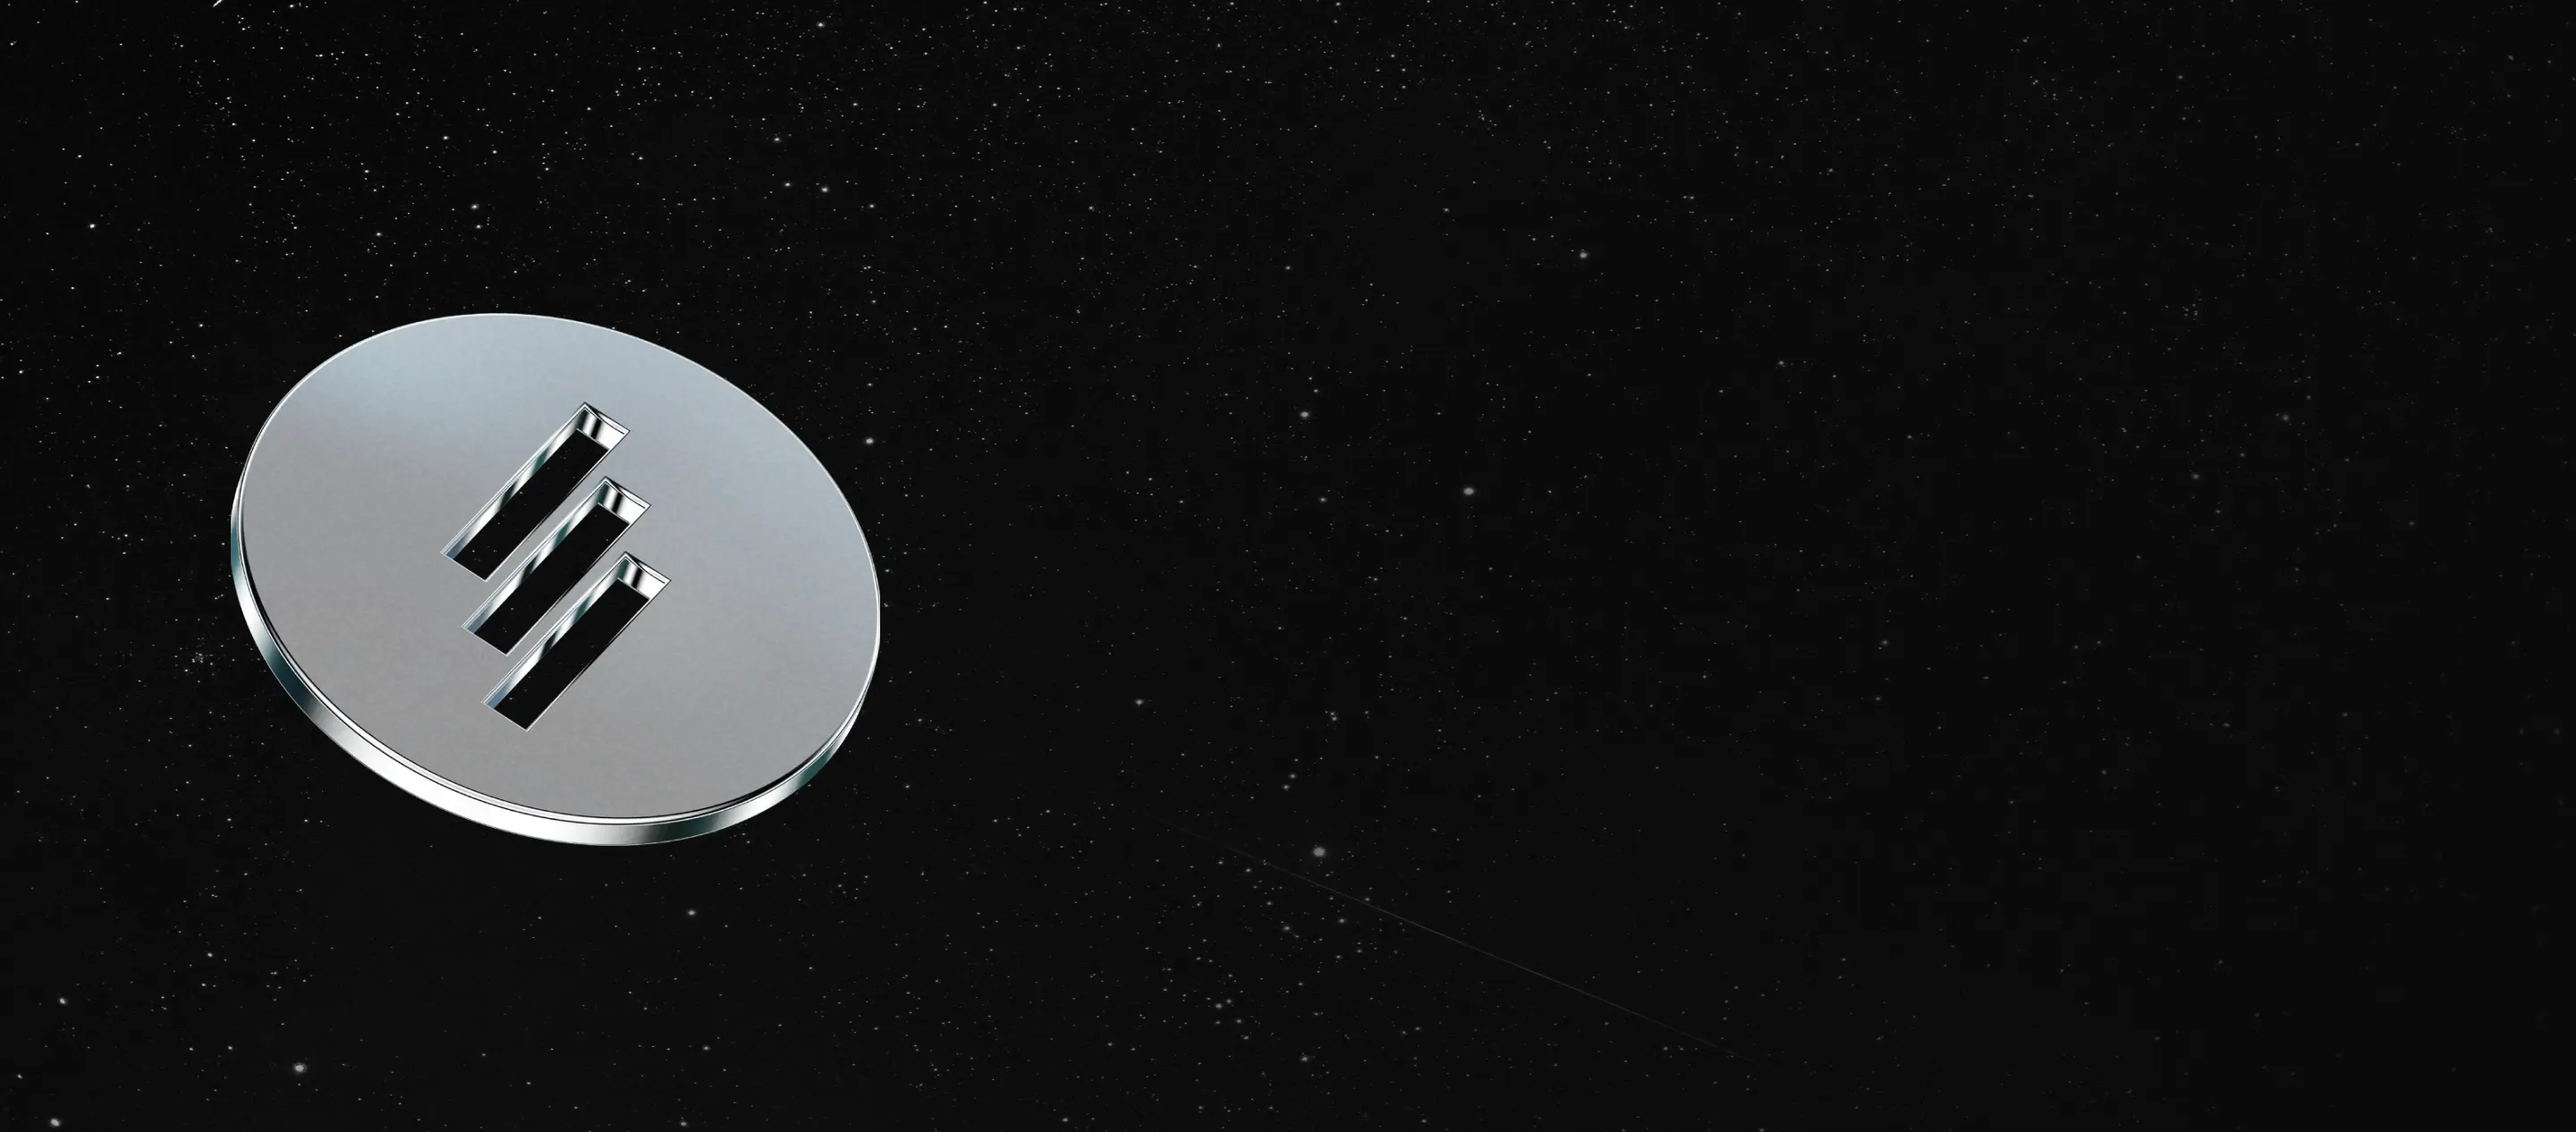
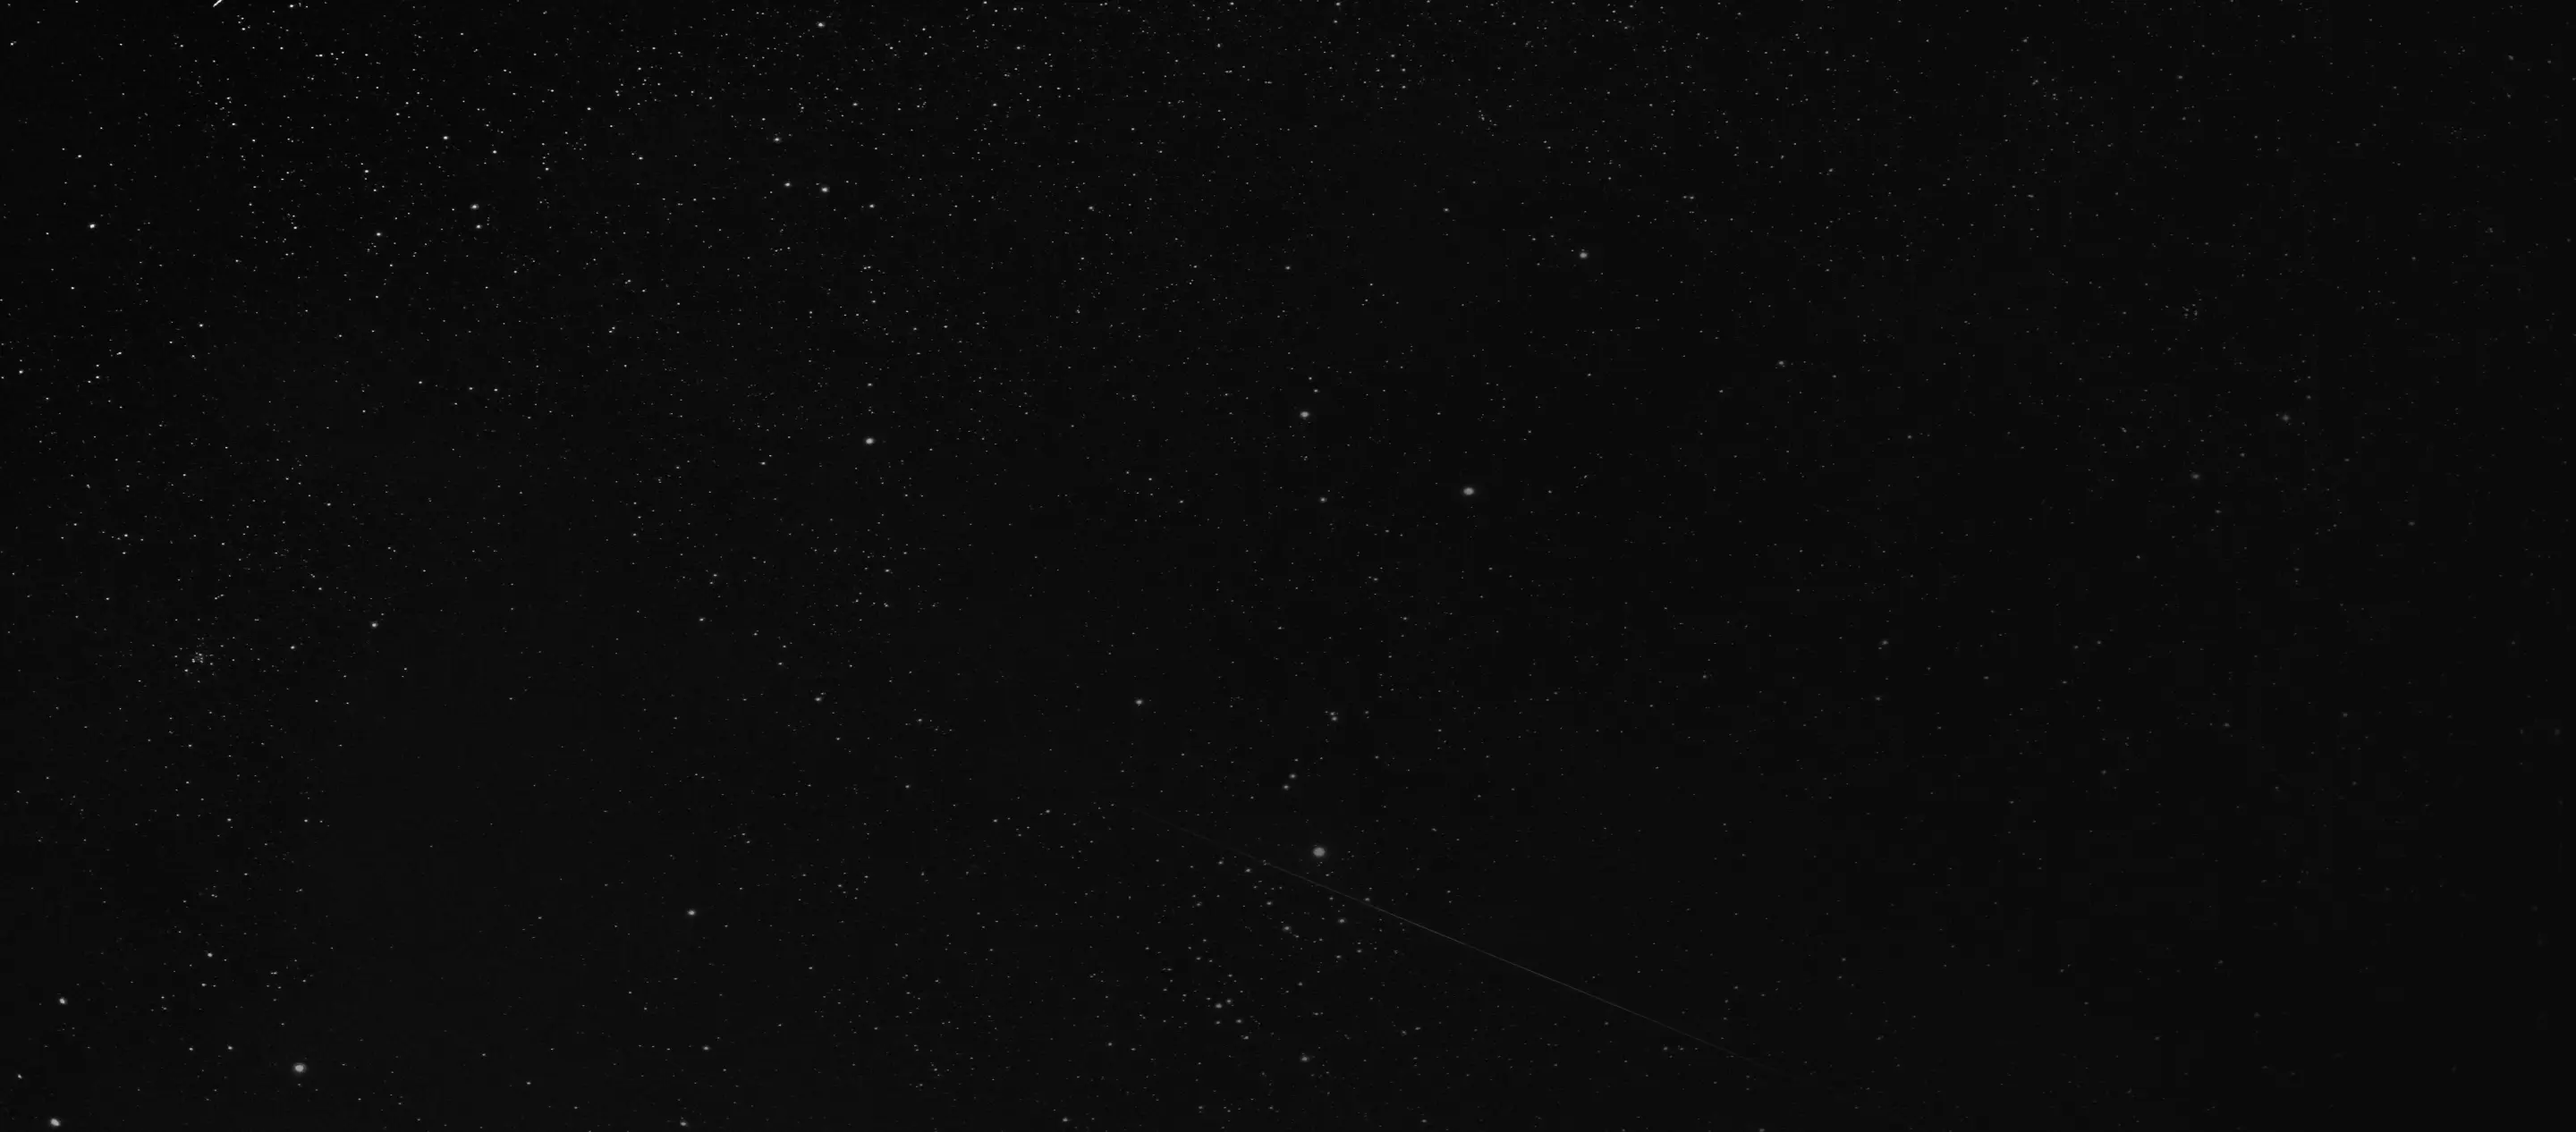
chore(fix): background + coin image

Changed region(s): [[0.0625, 0.2773, 0.3438, 0.7701]]

diff --git a/src/routes/+page.svelte b/src/routes/+page.svelte
@@ -8,7 +8,7 @@
 </script>
 
 <section class="hero px-6 lg:px-20 pt-64 pb-8 min-h-screen">
-    <h1 class="text-white  font-bold text-5xl lg:text-8xl pb-12">
+    <h1 class="text-white font-bold text-5xl lg:text-8xl pb-12">
         We are the <br /> 2077 Collective.
     </h1>
     <p class=" font-medium text-xl text-gray-lightest">
@@ -21,7 +21,7 @@
     <p class=" font-medium text-xl text-gray-dark">Мы Коллектив 2077.</p>
     <p class=" font-medium text-xl text-gray-darker">نحن مجموعة 2077.</p>
     <div class="pt-36 text-white">
-        <p class="text-3xl  font-semibold max-w-[680px]">
+        <p class="text-3xl font-semibold max-w-[680px]">
             We are creatives, researchers, marketers, and developers all working
             to make <span class="inline-block"><Eth /></span> Ethereum
             <s>cool</s> again.
@@ -33,10 +33,10 @@
     <div
         class="border-b border-gray-500 py-16 flex flex-col gap-y-4 lg:flex-row lg:justify-between"
     >
-        <h2 class="flex items-center text-6xl  font-semibold tracking-tight">
+        <h2 class="flex items-center text-6xl font-semibold tracking-tight">
             <span class="pr-4"><BulletPoint /></span> Beliefs
         </h2>
-        <p class="text-2xl  max-w-screen-3xl">
+        <p class="text-2xl max-w-screen-3xl">
             Crypto has the potential to give people across the world almost
             unimaginable levels of freedom and autonomy.
         </p>
@@ -45,11 +45,11 @@
         class="border-b border-gray-500 py-16 flex flex-col gap-y-4 lg:flex-row lg:justify-between"
     >
         <h2
-            class="flex items-center text-6xl  font-semibold tracking-tight pb-4"
+            class="flex items-center text-6xl font-semibold tracking-tight pb-4"
         >
             <span class="pr-4"><BulletPoint /></span> Vision
         </h2>
-        <p class="text-2xl  max-w-screen-3xl">
+        <p class="text-2xl max-w-screen-3xl">
             We envision a world where everyone has individual sovereignty,
             economic freedom and ownership of the infrastructure that supports
             them.
@@ -59,11 +59,11 @@
         class="border-b border-gray-500 py-16 flex flex-col gap-y-4 lg:flex-row lg:justify-between"
     >
         <h2
-            class="flex items-center text-6xl  font-semibold tracking-tight pb-4"
+            class="flex items-center text-6xl font-semibold tracking-tight pb-4"
         >
             <span class="pr-4"><BulletPoint /></span> Mission
         </h2>
-        <p class="text-2xl  max-w-screen-3xl">
+        <p class="text-2xl max-w-screen-3xl">
             Accelerate Ethereum adoption, because for this vision to
             materialize, crypto must be built on a truly decentralized and
             permissionless base layer.
@@ -73,10 +73,10 @@
 
 <section class="flex flex-col gap-y-16 px-6 lg:px-20 pt-12 pb-8">
     <div class="">
-        <p class="text-3xl  font-semibold pb-16">
+        <p class="text-3xl font-semibold pb-16">
             Solving Ethereum's biggest problem
         </p>
-        <h2 class="text-7xl lg:text-8xl  font-bold">
+        <h2 class="text-7xl lg:text-8xl font-bold">
             Lack of <br /> Marketing
         </h2>
     </div>
@@ -154,7 +154,11 @@
 
     <div class="grid lg:grid-cols-2">
         <div class="bg-white border border-black p-10 flex flex-col gap-y-6">
-            <p class="font-ibm font-semibold bg-black text-white w-8 rounded-full h-8 text-xl flex justify-center items-center">1</p>
+            <p
+                class="font-ibm font-semibold bg-black text-white w-8 rounded-full h-8 text-xl flex justify-center items-center"
+            >
+                1
+            </p>
             <p class=" font-semibold text-2xl">Fill the gap</p>
             <p class="text-2xl">
                 Establish consensus on core marketing problems, create public
@@ -162,16 +166,28 @@
                 relationships between builders and marketers.
             </p>
         </div>
-        <div class="bg-white border border-black border-y-0 p-10 flex flex-col gap-y-6 lg:border lg:border-s-0">
-            <p class="font-ibm font-semibold border border-black w-8 rounded-full h-8 text-xl flex justify-center items-center">2</p>
+        <div
+            class="bg-white border border-black border-y-0 p-10 flex flex-col gap-y-6 lg:border lg:border-s-0"
+        >
+            <p
+                class="font-ibm font-semibold border border-black w-8 rounded-full h-8 text-xl flex justify-center items-center"
+            >
+                2
+            </p>
             <p class=" font-semibold text-2xl">Control the Narrative</p>
             <p class="text-2xl text-[#0B0B0B]">
                 Ethpill newcomers, defend Ethereum from FUD + psyops, and
                 amplify the voices of protocol devs, researchers, and builders.
             </p>
         </div>
-        <div class="bg-white border border-black p-10 flex flex-col gap-y-6 lg:border-t-0">
-            <p class="font-ibm font-semibold border border-black w-8 rounded-full h-8 text-xl flex justify-center items-center">3</p>
+        <div
+            class="bg-white border border-black p-10 flex flex-col gap-y-6 lg:border-t-0"
+        >
+            <p
+                class="font-ibm font-semibold border border-black w-8 rounded-full h-8 text-xl flex justify-center items-center"
+            >
+                3
+            </p>
             <p class=" font-semibold text-2xl">Correct the focus</p>
             <p class="text-2xl">
                 Bring more people on-chain, increase % of builders in the
@@ -179,8 +195,14 @@
                 users/devs.
             </p>
         </div>
-        <div class="bg-white border border-black border-t-0 p-10 flex flex-col gap-y-6 lg:border-s-0">
-            <p class="font-ibm font-semibold border border-black w-8 rounded-full h-8 text-xl flex justify-center items-center">4</p>
+        <div
+            class="bg-white border border-black border-t-0 p-10 flex flex-col gap-y-6 lg:border-s-0"
+        >
+            <p
+                class="font-ibm font-semibold border border-black w-8 rounded-full h-8 text-xl flex justify-center items-center"
+            >
+                4
+            </p>
             <p class=" font-semibold text-2xl">Promote the ecosystem</p>
             <p class="text-2xl text-gray-950">
                 Increase mindshare, adoption, and investment in Ethereum through
@@ -189,16 +211,19 @@
             </p>
         </div>
     </div>
-    
+
     <div class="text-center">
-        <a class="inline-flex gap-x-4 items-center bg-green hover:bg-green-dark py-4 px-6 rounded-full text-xl font-ibm font-medium" href="https://eip2077.info">Explore EIP-2077 <span class="inline-block"><Explore /></span></a>
+        <a
+            class="inline-flex gap-x-4 items-center bg-green hover:bg-green-dark py-4 px-6 rounded-full text-xl font-ibm font-medium"
+            href="https://eip2077.info"
+            >Explore EIP-2077 <span class="inline-block"><Explore /></span></a
+        >
     </div>
-    
 </section>
 
-<section class="flex flex-col gap-y-12 px-6 lg:px-20 py-16">
+<section class="flex flex-col gap-y-12 px-6 lg:px-20 py-16 pb-20">
     <div class="flex flex-col gap-y-4">
-        <h2 class="text-6xl  font-medium">
+        <h2 class="text-6xl font-medium">
             Inde<span class="font-keania">x</span>
         </h2>
         <p class=" text-2xl">
@@ -216,7 +241,7 @@
                 width="840"
                 height="840"
             />
-            <p class="text-white text-xl  font-medium max-w-screen-3xl">
+            <p class="text-white text-xl font-medium max-w-screen-3xl">
                 See the geographical distribution of Ethereum validators in
                 real-time. A visual experience with in-depth metrics and
                 statistics.
@@ -286,42 +311,50 @@
 </section>
 
 <section
-    class="banner min-h-[633px] flex flex-col gap-y-16 justify-center items-end px-6 lg:px-20 py-16"
+    class="banner flex flex-col gap-y-16 justify-center items-center px-6 lg:px-20 py-16"
 >
-    <div class="flex flex-col gap-y-12">
-        <div class="flex flex-col gap-y-6">
-            <h2 class="text-6xl font-inter font-semibold tracking-tight text-white">
-                Join the Collective
-            </h2>
-            <p class="text-2xl font-interRegular text-white max-w-[732px]">
-                Help shape Ethereum's future by contributing your skills in
-                research, writing, design, or marketing to drive adoption and
-                help reach its full potential.
-            </p>
+    <div class="min-h-[633px] flex gap-24 flex-col lg:flex-row justify-start items-center">
+        <div>
+            <img src="coin.png" alt="" width="363" height="298">
         </div>
+        <div class="flex flex-col gap-y-12">
+            <div class="flex flex-col gap-y-6">
+                <h2 class="text-6xl font-semibold tracking-tight text-white">
+                    Join the Collective
+                </h2>
+                <p class="text-2xl text-white max-w-[732px]">
+                    Help shape Ethereum's future by contributing your skills in
+                    research, writing, design, or marketing to drive adoption
+                    and help reach its full potential.
+                </p>
+            </div>
 
-        <div class="flex flex-col sm:flex-row gap-x-6 gap-y-6">
-            <a
-                class="font-inter font-medium max-w-44 border border-white rounded-full py-4 px-6 text-white hover:opacity-65 flex gap-x-4"
-                href="https://discord.gg/2077collective" target="_blank"
-            >
-                <Discord />
-                Discord
-            </a>
-            <a
-                class="font-inter font-medium max-w-44 border border-white rounded-full py-4 px-6 text-white hover:opacity-65 flex gap-x-4"
-                href="https://x.com/2077Collective" target="_blank"
-            >
-                <Twitter />
-                Follow us
-            </a>
-            <a
-                class="font-inter font-medium max-w-44 border border-white rounded-full py-4 px-6 text-white hover:opacity-65 flex gap-x-4"
-                href="https://www.farcaster.id/c/2077collective" target="_blank"
-            >
-                <Farcaster />
-                Farcaster
-            </a>
+            <div class="flex flex-col sm:flex-row gap-x-6 gap-y-6">
+                <a
+                    class=" font-medium max-w-44 border border-white rounded-full py-4 px-6 text-white hover:opacity-65 flex gap-x-4"
+                    href="https://discord.gg/2077collective"
+                    target="_blank"
+                >
+                    <Discord />
+                    Discord
+                </a>
+                <a
+                    class=" font-medium max-w-44 border border-white rounded-full py-4 px-6 text-white hover:opacity-65 flex gap-x-4"
+                    href="https://x.com/2077Collective"
+                    target="_blank"
+                >
+                    <Twitter />
+                    Follow us
+                </a>
+                <a
+                    class=" font-medium max-w-44 border border-white rounded-full py-4 px-6 text-white hover:opacity-65 flex gap-x-4"
+                    href="https://www.farcaster.id/c/2077collective"
+                    target="_blank"
+                >
+                    <Farcaster />
+                    Farcaster
+                </a>
+            </div>
         </div>
     </div>
 </section>
